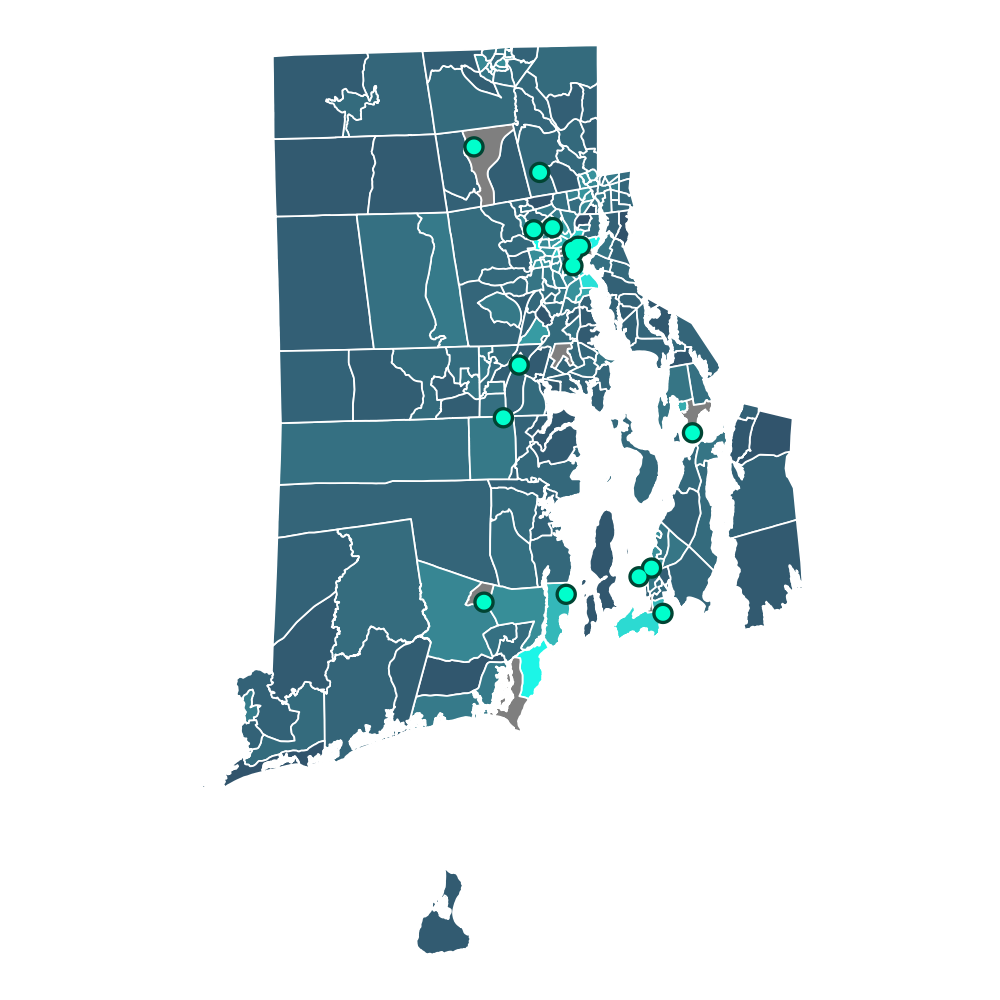
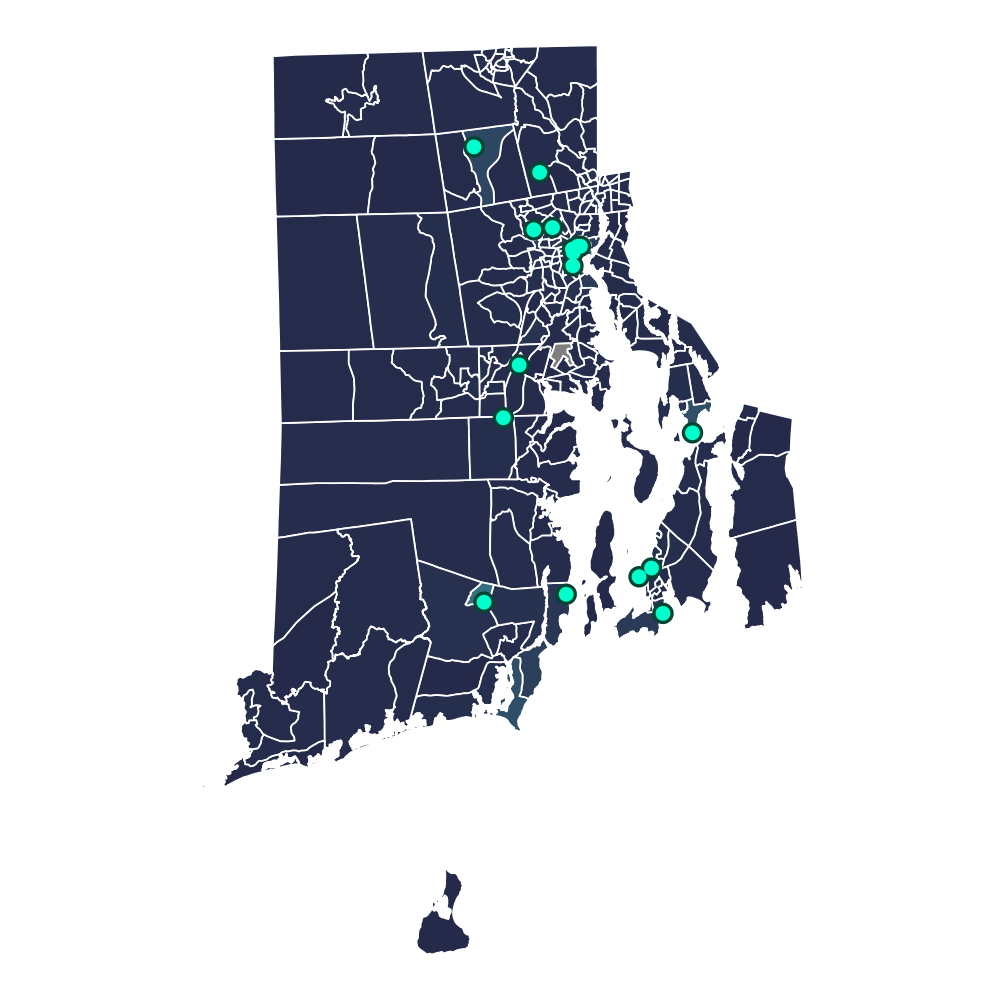
change bounds to zero to one hundred

Changed region(s): [[0.217, 0.031, 0.806, 0.806], [0.403, 0.868, 0.465, 0.961]]

diff --git a/src/components/OssdbImageGallery/data.ts b/src/components/OssdbImageGallery/data.ts
@@ -32,7 +32,7 @@ export const gallery: Array<GalleryData> = [
     title: 'Rhode Island Residents Under 15 Years Old',
     bounds: {
       min: 0,
-      max: 30,
+      max: 100, //30,
     },
     src: choroplethAgeUnder15,
     alt: `${ALT_TEMPLATE} percentage populations of residents under 15 years of age. Concentrations (~25-30%) appear in the Providence / Pawtucket area, Woonsocket, Barrington, and Newport.`,
@@ -42,7 +42,7 @@ export const gallery: Array<GalleryData> = [
     title: 'College Age (20-24) Residents of Rhode Island',
     bounds: {
       min: 0,
-      max: 15,
+      max: 100, //15,
     },
     src: choroplethAgeCollege,
     note: 'Locations of colleges are noted on the map.',
@@ -53,7 +53,7 @@ export const gallery: Array<GalleryData> = [
     title: 'Rhode Island Residents Over 70 Years Old',
     bounds: {
       min: 0,
-      max: 35,
+      max: 100, //35,
     },
     src: choroplethAgeOver70,
     alt: `${ALT_TEMPLATE} percentage populations of residents over 70 years of age. Concentrations appear in along the south coast of Rhode Island and East Greenwhich.`,
@@ -64,7 +64,7 @@ export const gallery: Array<GalleryData> = [
     title: 'Vacant Housing Units In Rhode Island',
     bounds: {
       min: 0,
-      max: 70,
+      max: 100, //70,
     },
     src: choroplethHousingVacant,
     alt: `${ALT_TEMPLATE} percentage of vacant housing units. Tracts along the south coast and Block Island have upwards of 70% vacant housing, mostly due people owned seasonal homes.`,
@@ -105,7 +105,7 @@ export const gallery: Array<GalleryData> = [
     title: 'Black or African American Residents',
     bounds: {
       min: 0,
-      max: 45,
+      max: 100, //45,
     },
     src: choroplethRaceBlackAfricanAmerican,
     alt: `${ALT_TEMPLATE} percentage populations of Black or African American residents. The tracts in and around Providence, Woonsocket, and Newport have the highest concentrations of Black or African American residents.`,
@@ -115,7 +115,7 @@ export const gallery: Array<GalleryData> = [
     title: 'American Indian or Alaskan Native Residents',
     bounds: {
       min: 0,
-      max: 10,
+      max: 100, //10,
     },
     src: choroplethRaceAmericanIndianAlaskaNative,
     alt: `${ALT_TEMPLATE} percentage populations of American Indian or Alaskan Native residents. `,
@@ -125,7 +125,7 @@ export const gallery: Array<GalleryData> = [
     title: 'Asian Residents',
     bounds: {
       min: 0,
-      max: 35,
+      max: 100, //35,
     },
     src: choroplethRaceAsian,
     alt: `${ALT_TEMPLATE} percentage populations of Asian residents. Greenville and some areas of Providence have high populations of Asian residents (~35%), with other suburban areas of the state having lower but still notable populations of Asian residents.`,
@@ -135,7 +135,7 @@ export const gallery: Array<GalleryData> = [
     title: 'Native Hawaiian or Pacific Islander Residents',
     bounds: {
       min: 0,
-      max: 2,
+      max: 100, //2,
     },
     src: choroplethRaceNativeHawaiianPacificIslander,
     alt: `${ALT_TEMPLATE} percentage populations of Native Hawaiian or Pacific Islander Residents residents. There aren't any census tracts with high proportions of Native Hawaiian or Pacific Islander residents, but the greatest conentrations exist around Providence and Newport.`,
@@ -145,7 +145,7 @@ export const gallery: Array<GalleryData> = [
     title: 'Residents Reporting "Other" on Census Surveys',
     bounds: {
       min: 0,
-      max: 70,
+      max: 100, //70,
     },
     src: choroplethRaceOther,
     alt: `${ALT_TEMPLATE} percentage populations of residents who reported "other" on census surveys. This group of residents is highly concentrated in and around the Providence area.`,
